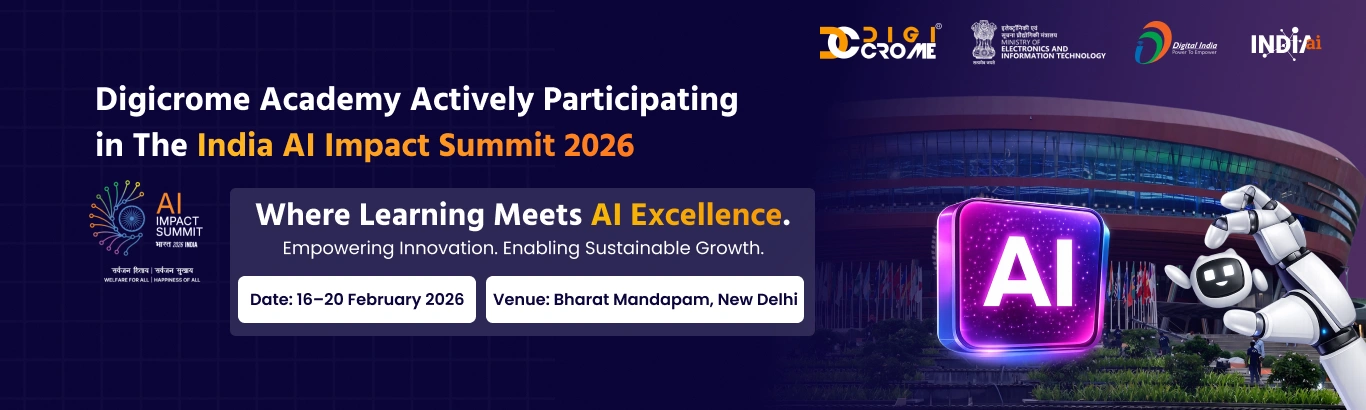
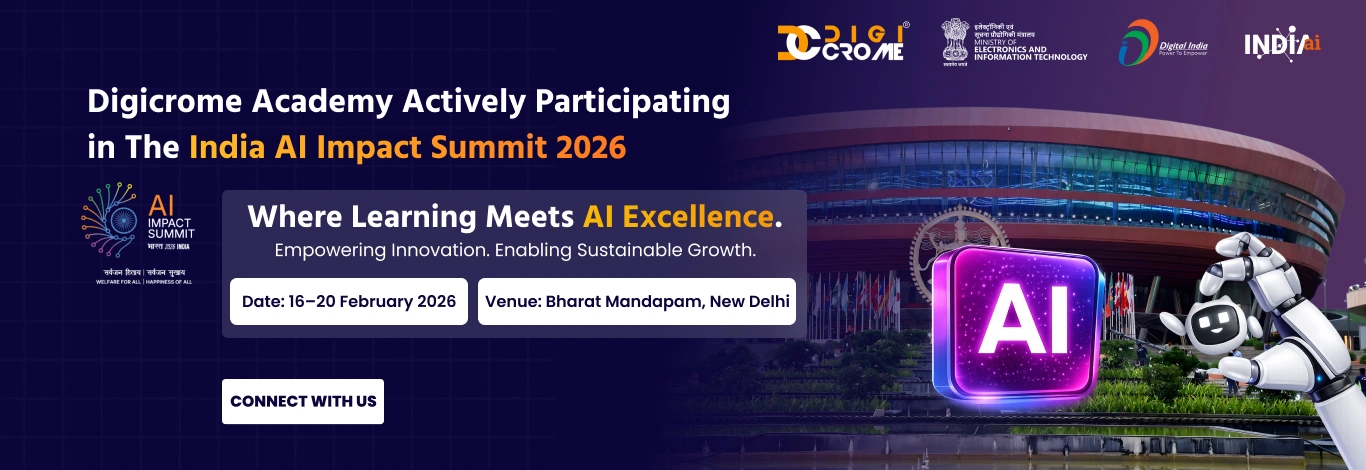
changes complete

diff --git a/resources/views/welcome.blade.php b/resources/views/welcome.blade.php
@@ -209,18 +209,18 @@
             <picture>
                 <source srcset="{{ asset('assets/images/home-one/ai-summit-mob.webp') }}"
                     media="(max-width: 768px)">
-                <img src="{{ asset('assets/images/home-one/ai-summit.webp') }}"
+                <img src="{{ asset('assets/images/home-one/ai-summit.webp') }}"  onclick="openModal()"
                     alt="Hero Banner" width="1200" height="400" fetchpriority="high" decoding="async"
                     style="width:100%;height:auto;">
             </picture>
         </div>
-        <div class="container">
+        {{-- <div class="container">
             <div class="both-btn">
                 <button type="button" class="btn button-repfirst" onclick="openModal()" style="">
                     CONNECT WITH US
                 </button>
             </div>
-        </div>
+        </div> --}}
     </div>
     {{-- <section class="ai-banner-section">
 
